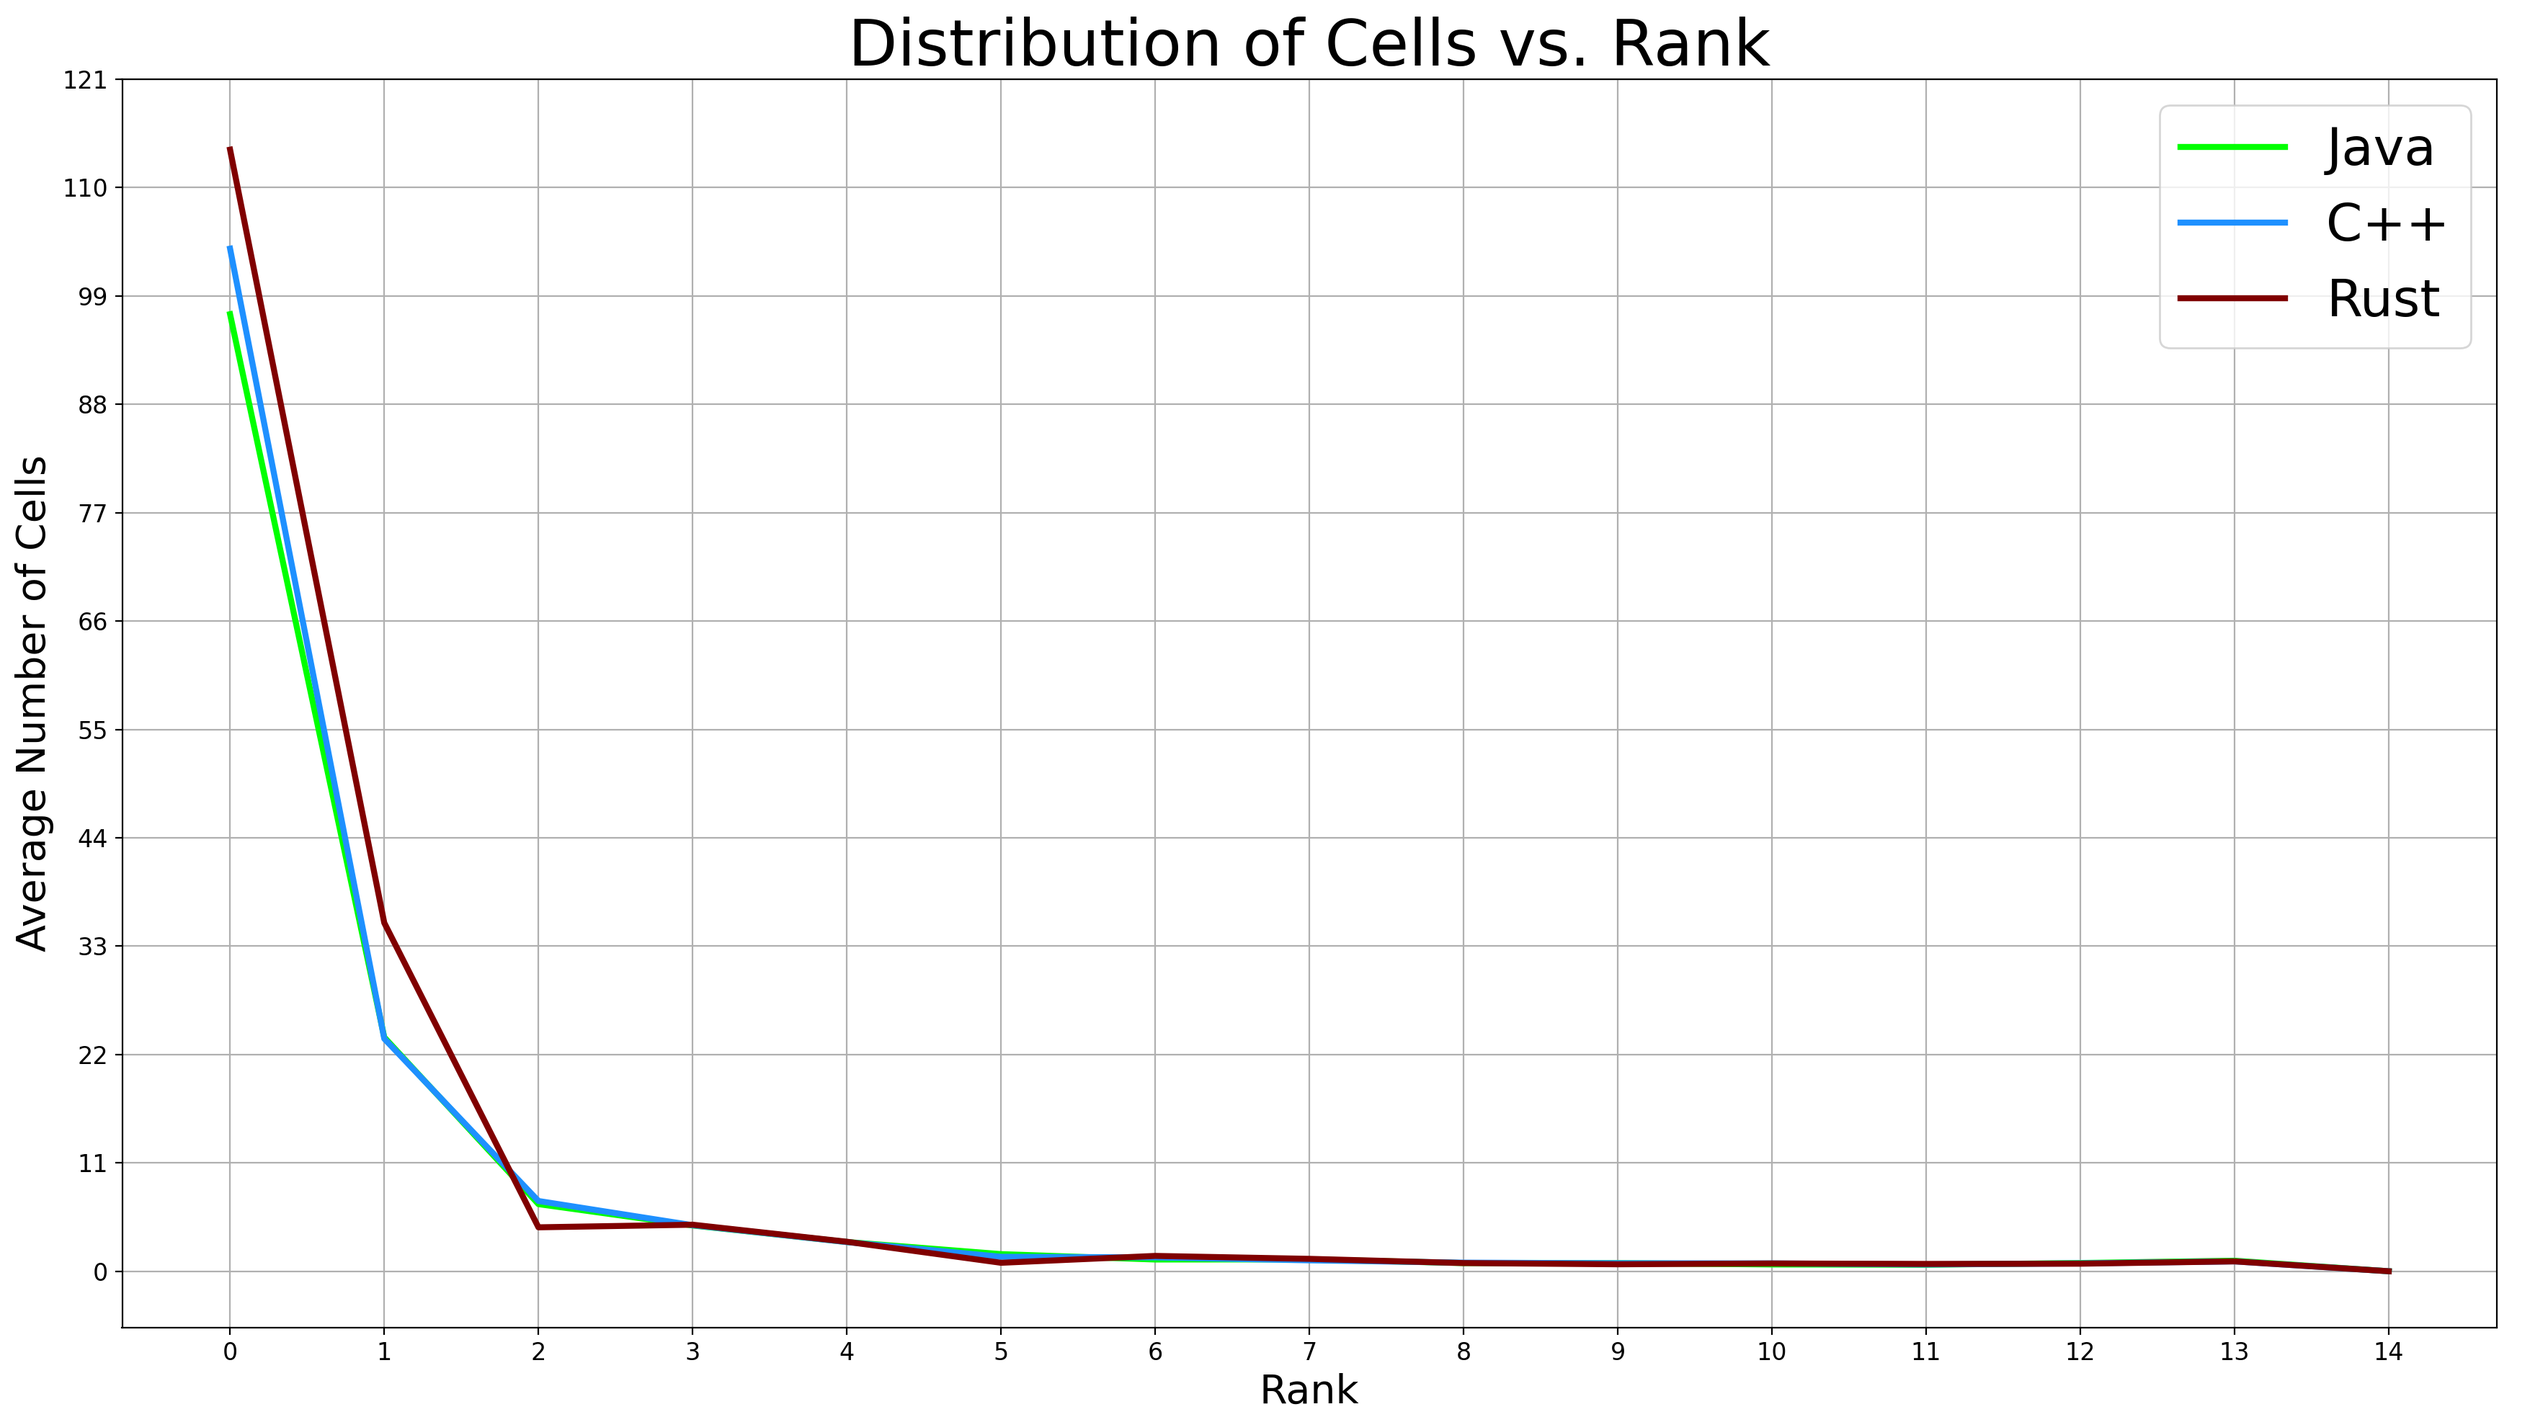
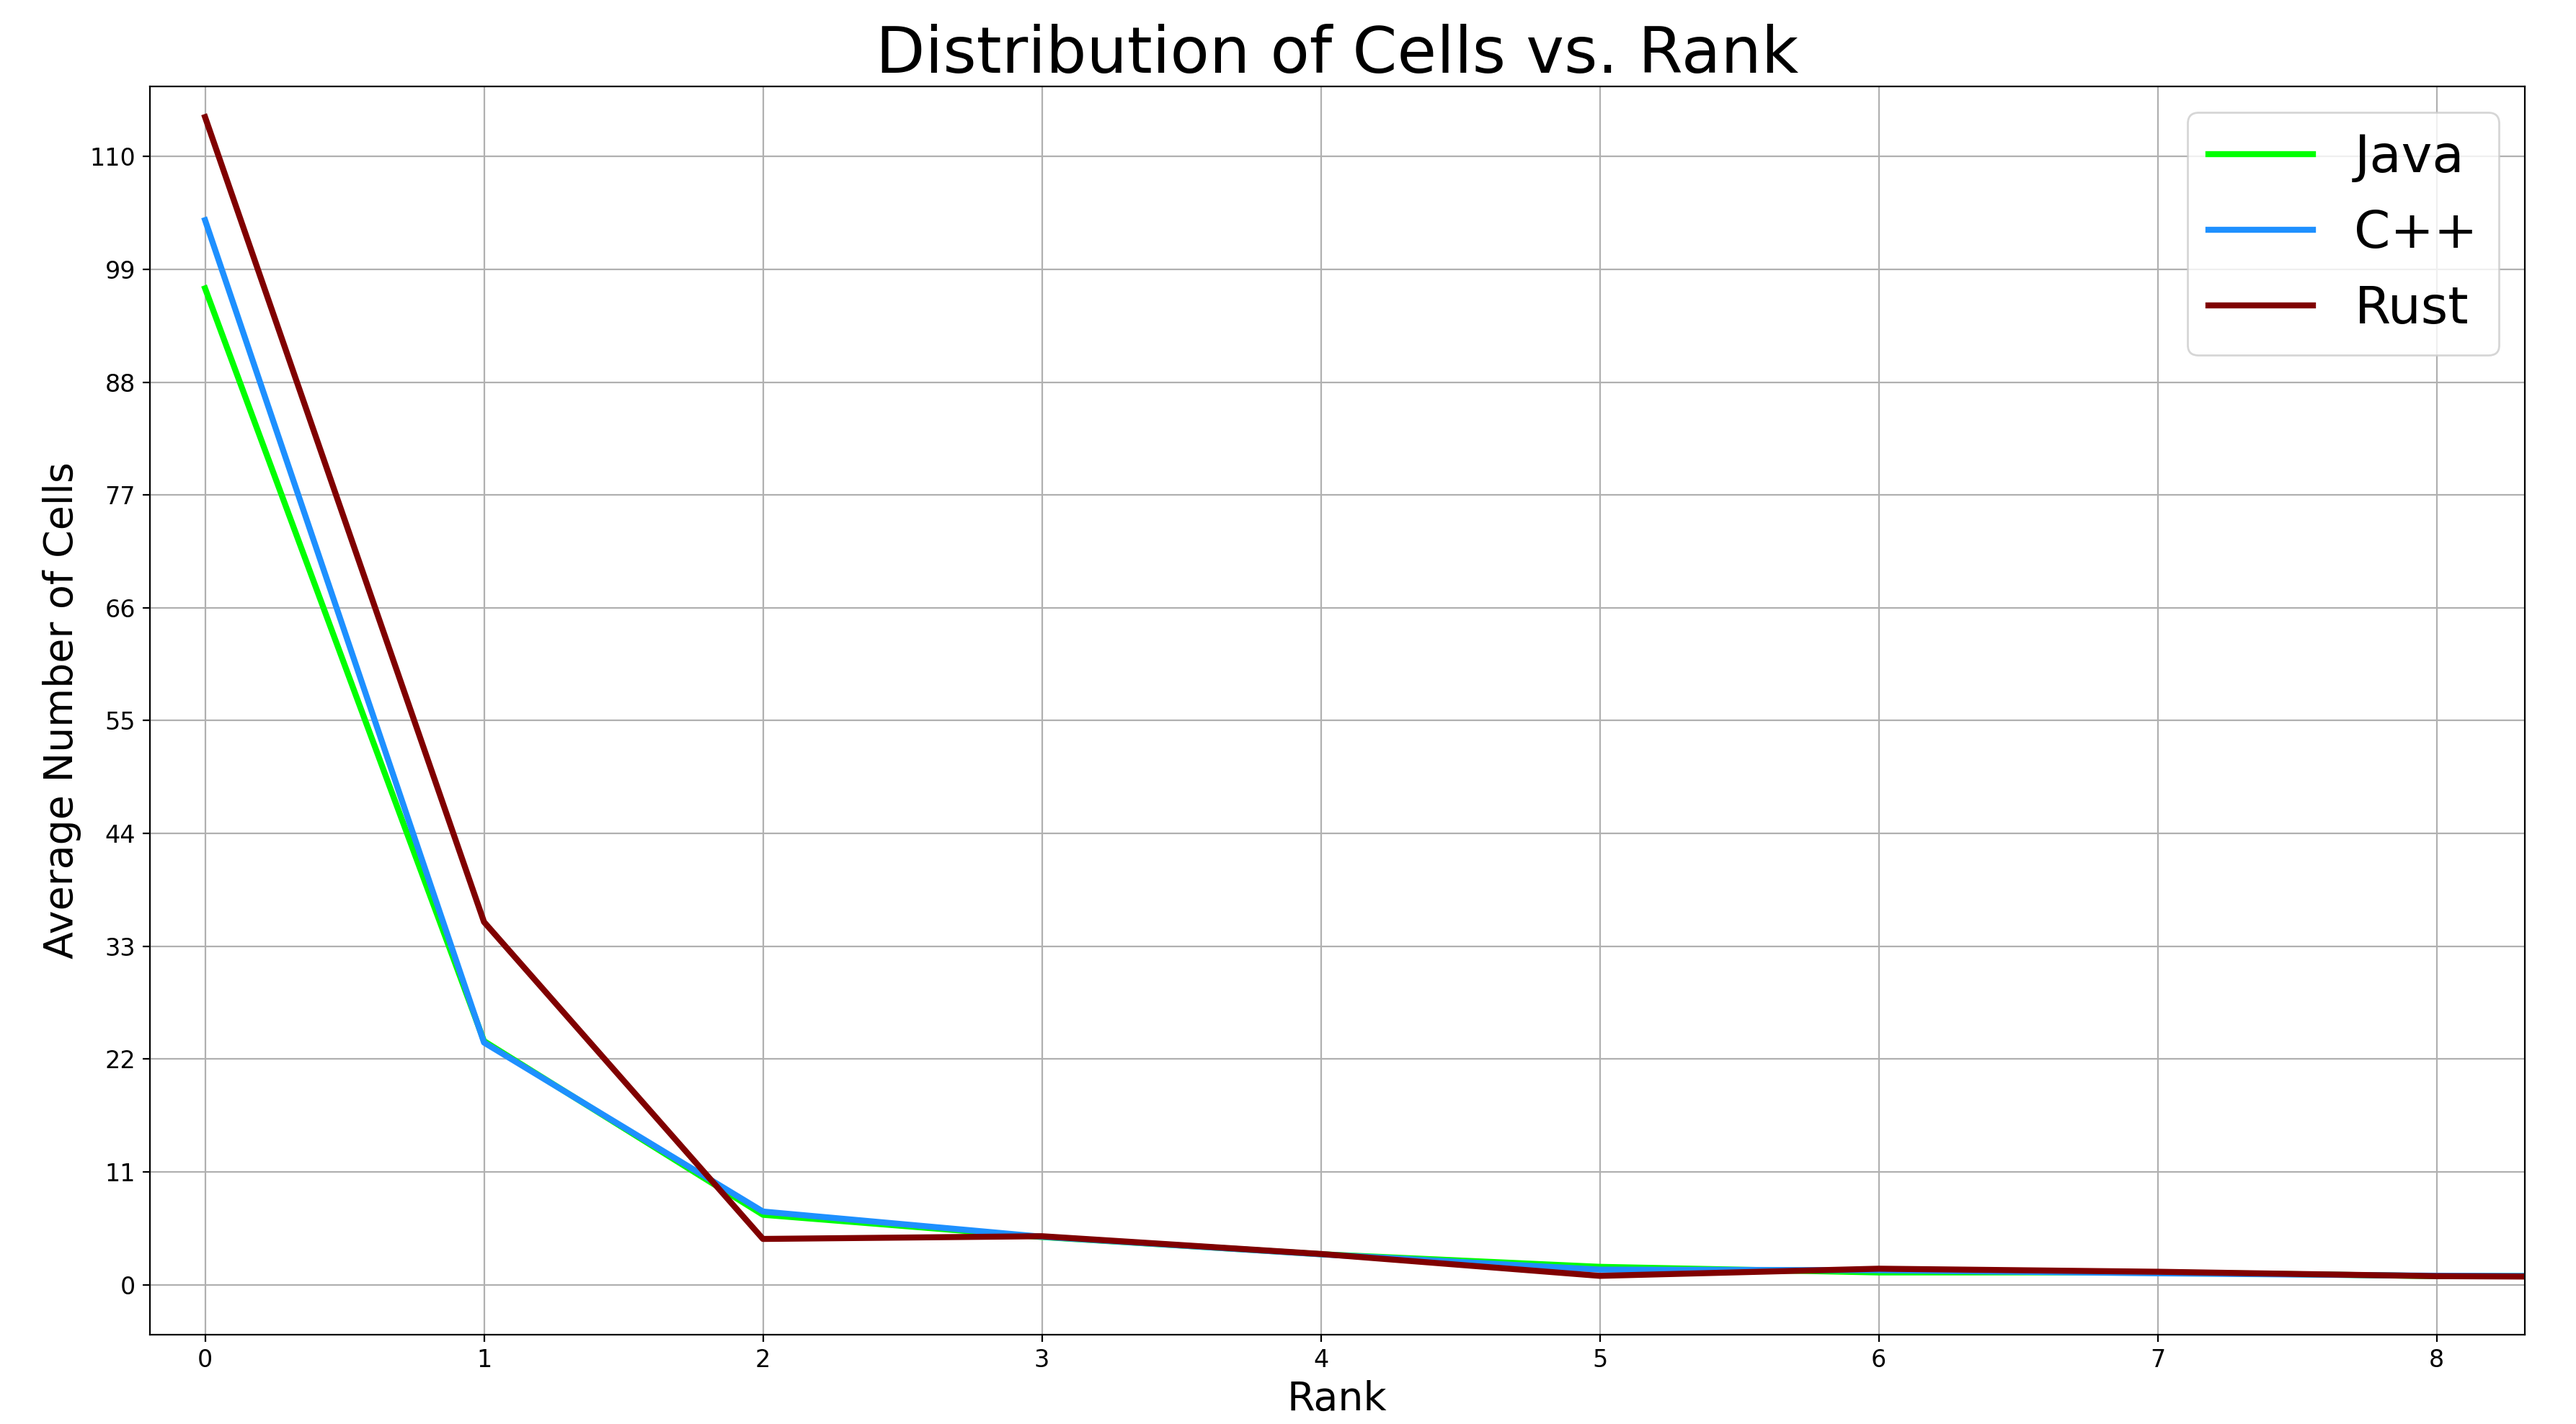
update rank dist plot

diff --git a/Scripts/Analysis.py b/Scripts/Analysis.py
@@ -208,7 +208,7 @@ def PlotComplexScalars(N: int = 10000, idxY: int = 1, bPlotStd: bool = False, bR
     plt.close()
 
 def main():
-    PlotComplexScalars(N = 10000, idxY = 4, bRDists = False, bADists = False, bIDists = True)
+    PlotComplexScalars(N = 10000, idxY = 4, bRDists = True, bADists = False, bIDists = True)
 
 
 if __name__ == "__main__":
